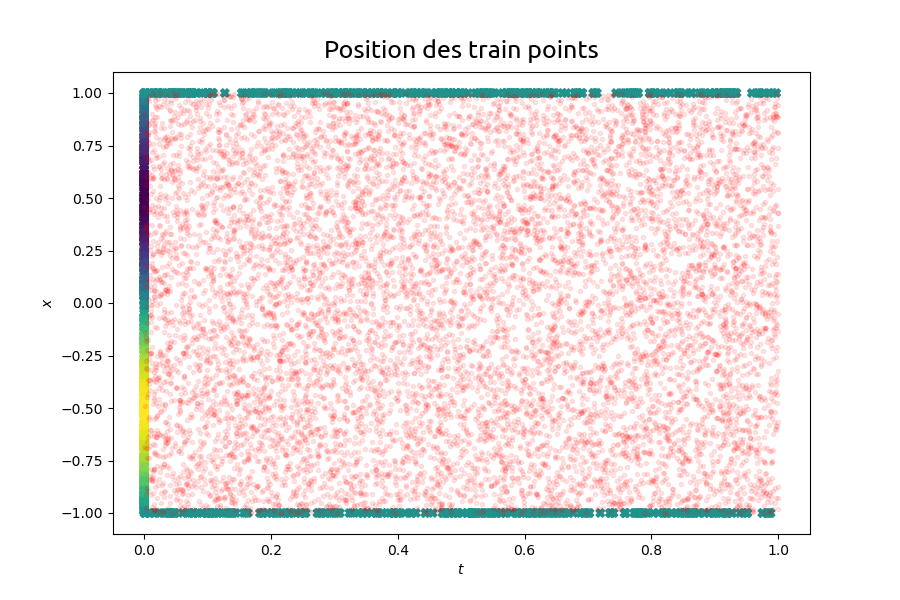
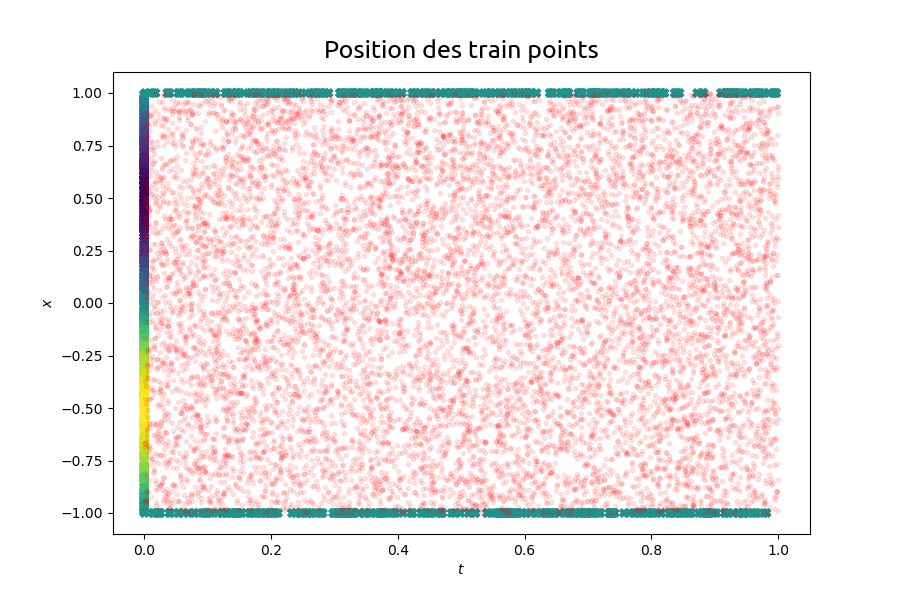
implementation de batches mais entrainememnt bcp trop lent mtn

Changed region(s): [[0.1556, 0.15, 0.8711, 0.87]]

diff --git a/nn.py b/nn.py
@@ -62,12 +62,25 @@ class PINNSolver():
     Définie un solveur en se basant sur un modele déjà défini
     '''
 
-    def __init__(self, model, X_r, gamma = 1):
+    def __init__(self, model, X_r, gamma = 1, batch_size = 32):
         self.model = model
+        
          
         self.t = X_r[:,0:1]
         self.x = X_r[:,1:2]
+
+        #shuffle data and split data into batches for better trainning
+        tf.random.set_seed(42) #reproductibilite
+
+        combined_tensor = tf.concat([self.t, self.x], axis=-1)
+        shuffled_combined_tensor = tf.random.shuffle(combined_tensor)
+
+        t_shuf = shuffled_combined_tensor[:, :self.t.shape[-1]]
+        x_shuf = shuffled_combined_tensor[:, self.t.shape[-1]:]
         
+        num_batches = x_shuf.shape[0] // batch_size
+        self.batches = tf.data.Dataset.from_tensor_slices((t_shuf, x_shuf)).batch(batch_size)
+
         # historique de loss et nmbre d'iterations
         self.hist_loss = []
         self.iter = 0
@@ -81,30 +94,30 @@ class PINNSolver():
         return u_t + u * u_x - viscosity * u_xx
         
 
-    def get_r(self):
+    def get_r(self, batch_t, batch_x):
         '''
         Calcule le residu de l'EDP
         '''
         with tf.GradientTape(persistent=True) as tape:
-            tape.watch(self.t)
-            tape.watch(self.x)                
+            tape.watch(batch_t)
+            tape.watch(batch_x)                
                 
-            u = self.model(tf.stack([self.t[:,0], self.x[:,0]], axis=1))
+            u = self.model(tf.stack([batch_t[:,0], batch_x[:,0]], axis=1))
                 
-            u_x = tape.gradient(u, self.x)  
-            u_t = tape.gradient(u, self.t)
-            u_xx = tape.gradient(u_x, self.x)
+            u_x = tape.gradient(u, batch_x)  
+            u_t = tape.gradient(u, batch_t)
+            u_xx = tape.gradient(u_x, batch_x)
             
         del tape
 
-        return self.f_r(self.t, self.x, u, u_t, u_x, u_xx)
+        return self.f_r(batch_t, batch_x, u, u_t, u_x, u_xx)
     
 
-    def loss_f(self, X, u):
+    def loss_f(self, X, u, batch_t, batch_x):
         '''
         Calcule de loss
         '''
-        r = self.get_r()
+        r = self.get_r(batch_t, batch_x)
         MSEf = tf.reduce_mean(tf.square(r)) 
                 
         u_pred = self.model(X)
@@ -115,13 +128,13 @@ class PINNSolver():
         return loss
     
 
-    def get_grad(self, X, u):
+    def get_grad(self, X, u, batch_t, batch_x):
         '''
         Calcule le gradient par rapport aux poids et aux biais
         '''
         with tf.GradientTape(persistent=True) as tape:
             tape.watch(self.model.trainable_variables)
-            loss = self.loss_f(X, u)
+            loss = self.loss_f(X, u, batch_t, batch_x)
             
             grad = tape.gradient(loss, self.model.trainable_variables)
         
@@ -135,17 +148,19 @@ class PINNSolver():
         optimisation par SGD
         '''
         @tf.function
-        def train_step():
+        def train_step(batch_t, batch_x):
             '''
             Réalise un pas de la SGD
             '''
-            loss, grad = self.get_grad(X, u)
+            loss, grad = self.get_grad(X, u, batch_t, batch_x)
             
             optimizer.apply_gradients(zip(grad, self.model.trainable_variables))
             return loss
         
         for i in range(N):
-            loss = train_step()
+            for batch_t, batch_x in self.batches : 
+                loss = train_step(batch_t, batch_x)
+            
             self.current_loss = loss.numpy()
             self.callback()
 
